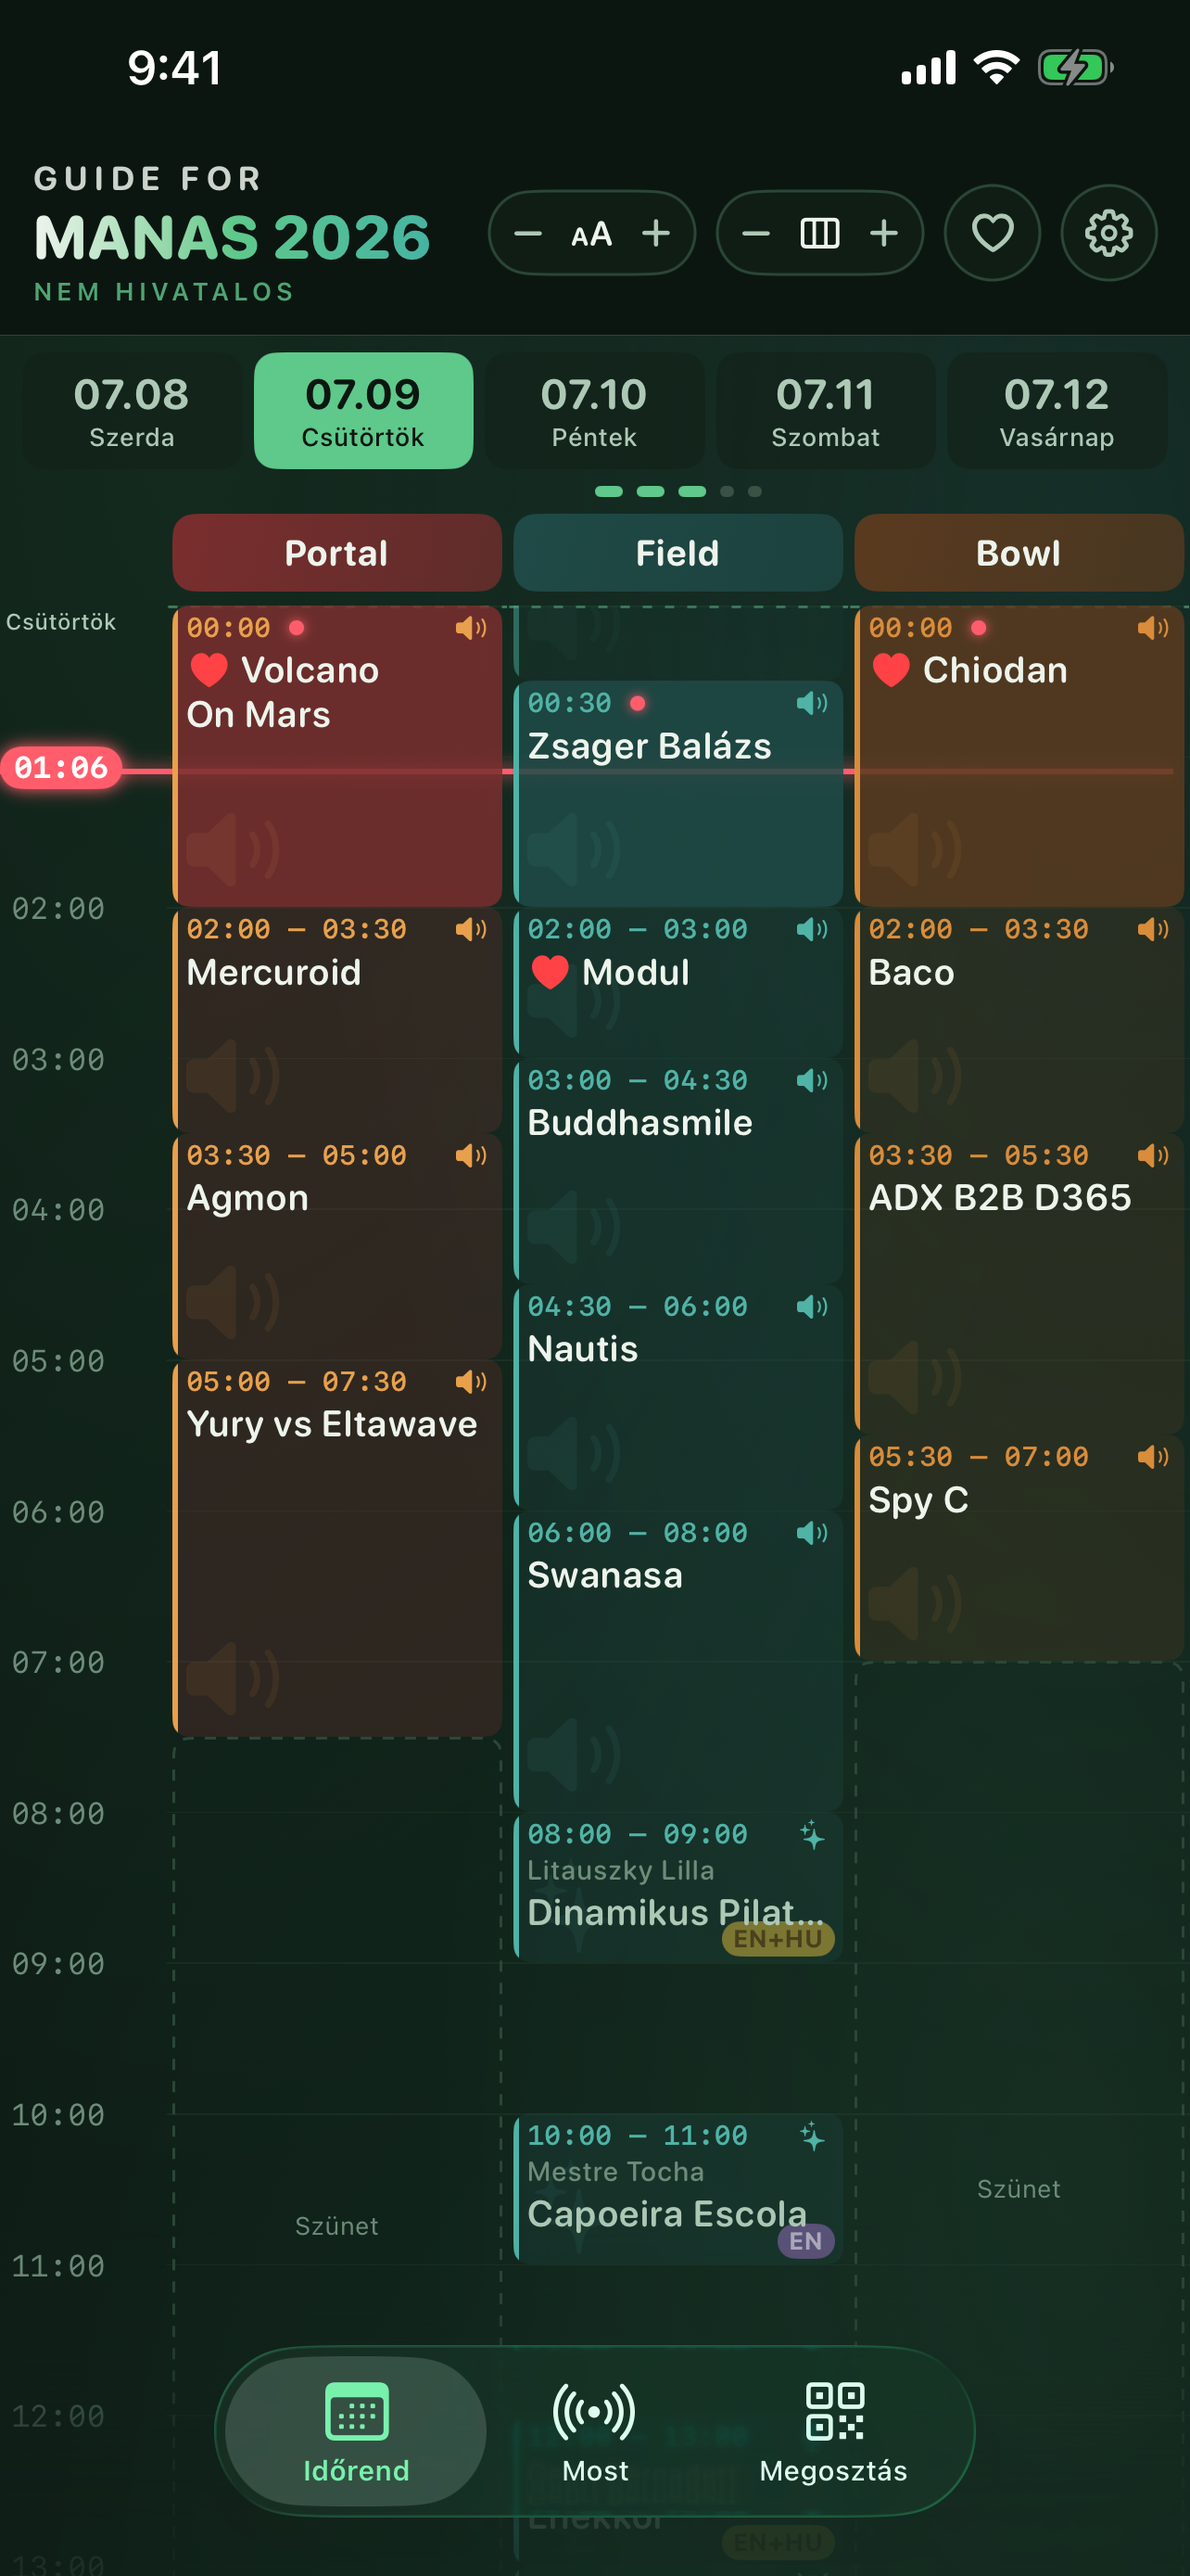
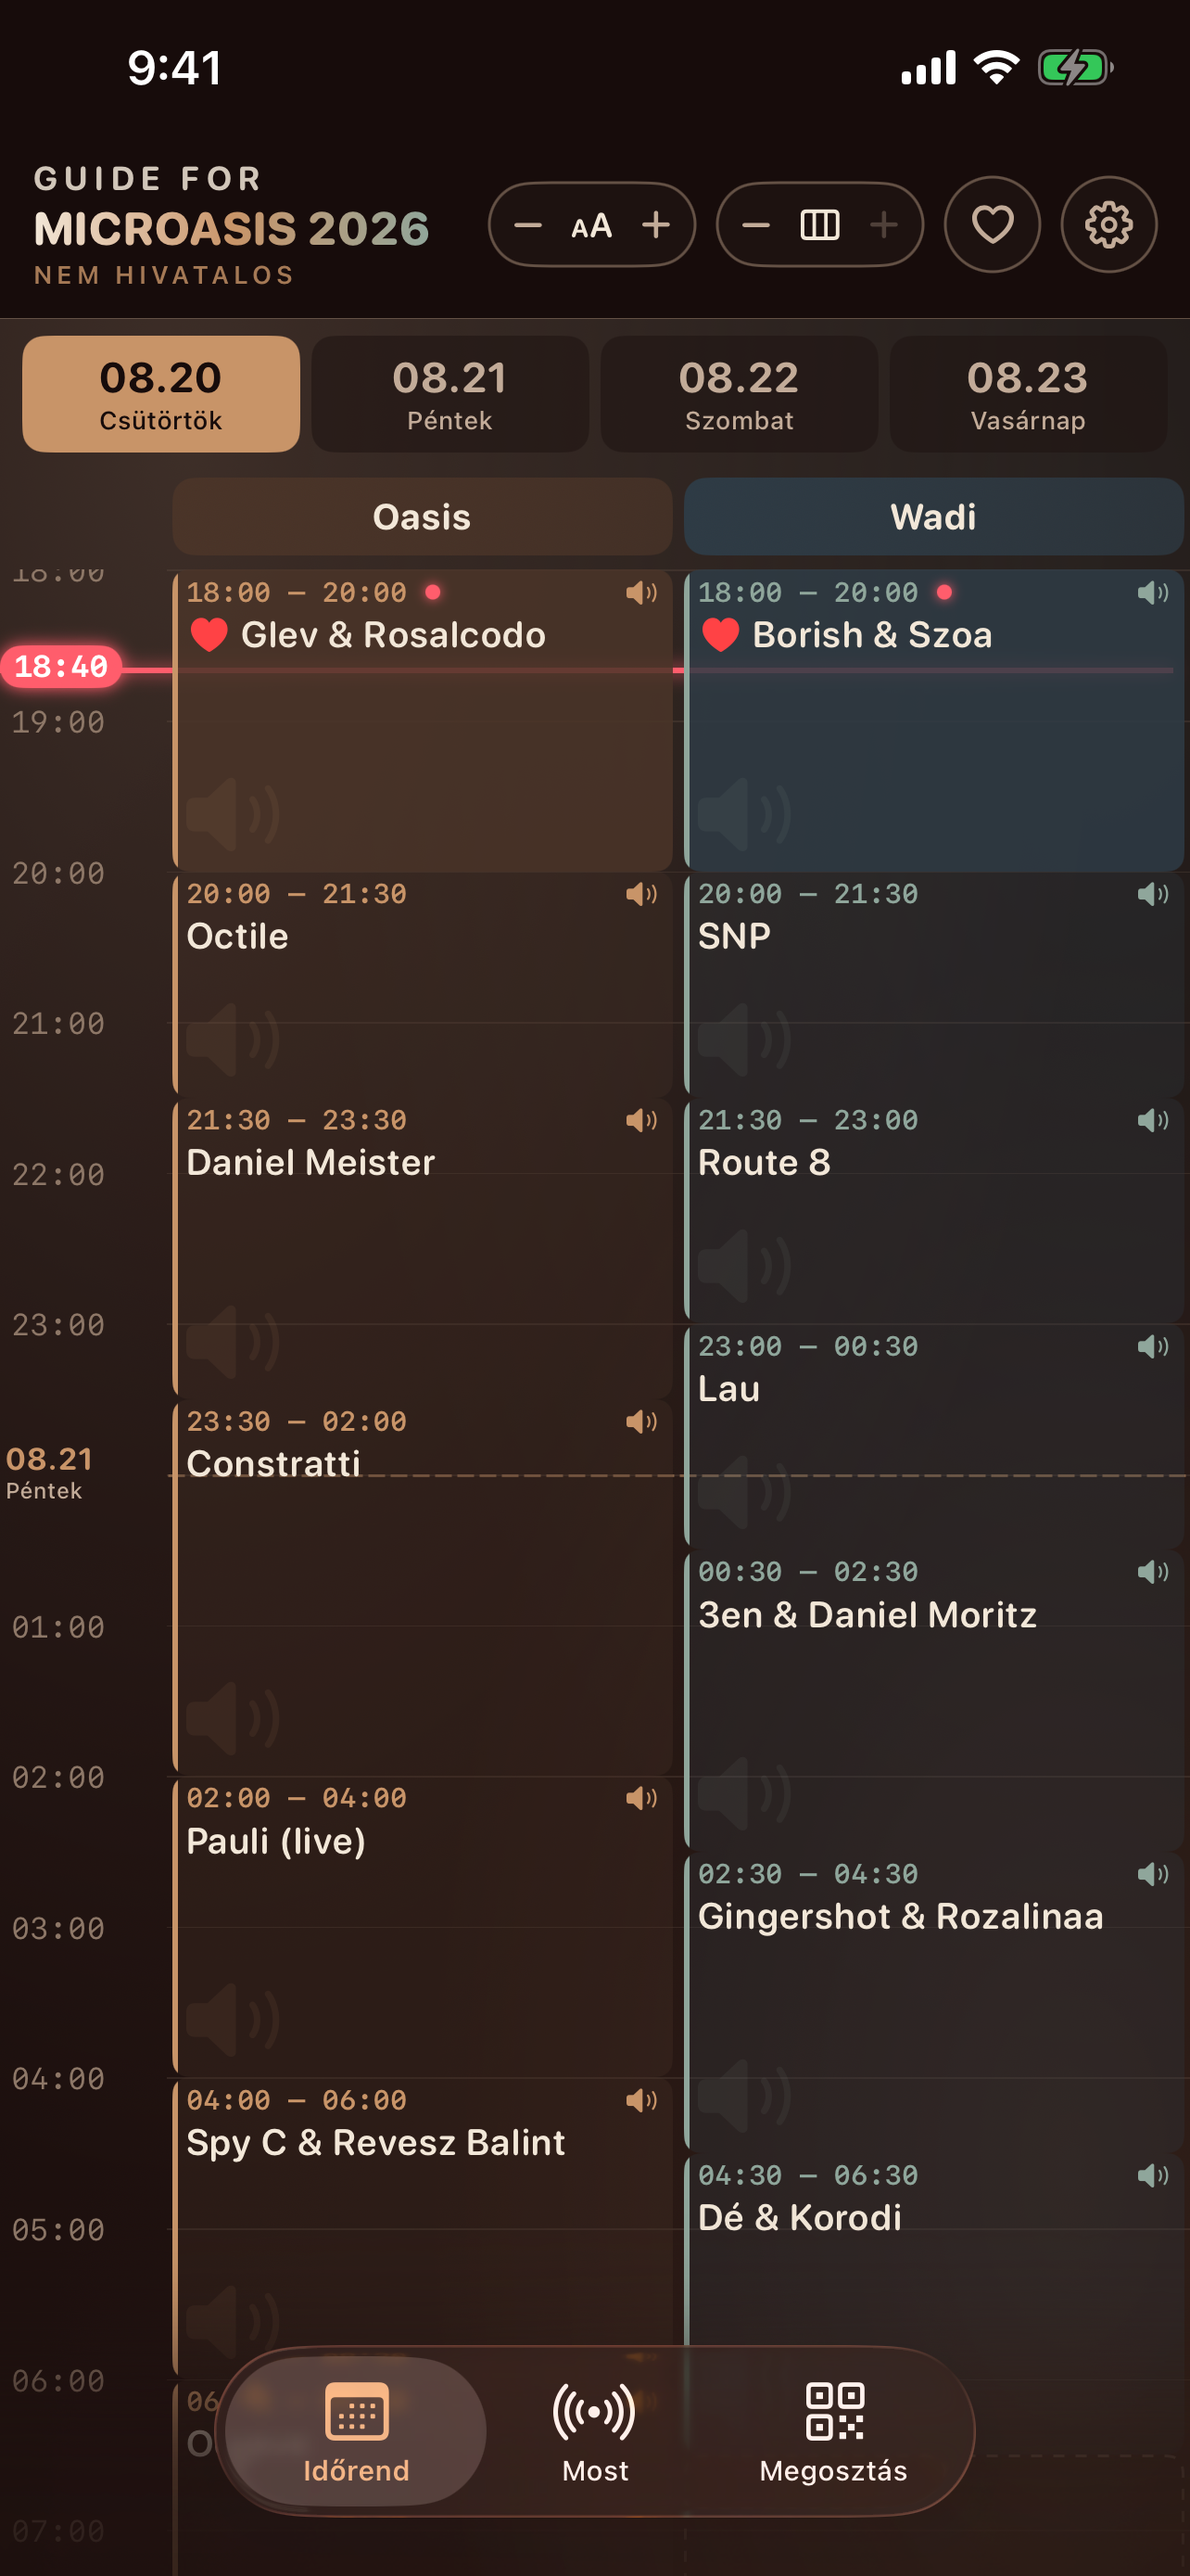
fix: end the wordmark and share gradients on ember, not teal
Both ran cream → sun → teal, and the cool secondary reads distinctly green
where it lands: the right-hand side of the "MICROASIS 2026" lockup and of the
share pill. They now end on the warm terracotta, which needed a Theme.ember
token on the Swift side to match the web's --color-ember.

Also refreshes the watch's pre-baked share QR: new URL (microasis.torma.ai/get)
and the new ink-on-cream values, so it matches the iOS runtime QR again.

The App Store listing copy and the screenshot recipe move to the MicrOasis
lineup — Oasis / Wadi / Yoga Terrace, August dates, and shot moments picked
against the live API so every referenced favorite slug resolves.

diff --git a/apple/Sources/MicrOasis-iOS/RootView.swift b/apple/Sources/MicrOasis-iOS/RootView.swift
@@ -117,7 +117,7 @@ struct DisclaimerSheet: View {
                 Text(L.t("app.title", settings.locale).uppercased())
                     .font(.system(size: 26, weight: .heavy, design: .rounded))
                     .foregroundStyle(
-                        LinearGradient(colors: [Theme.cream, Theme.sun, Theme.teal],
+                        LinearGradient(colors: [Theme.cream, Theme.sun, Theme.ember],
                                        startPoint: .leading, endPoint: .trailing))
                 Text(L.t("disclaimer.title", settings.locale).uppercased())
                     .font(.system(size: 11, weight: .semibold))
@@ -189,7 +189,7 @@ struct HeaderBar: View {
                 Text(L.t("app.title", settings.locale).uppercased())
                     .font(.system(size: 22, weight: .heavy, design: .rounded))
                     .foregroundStyle(
-                        LinearGradient(colors: [Theme.cream, Theme.sun, Theme.teal],
+                        LinearGradient(colors: [Theme.cream, Theme.sun, Theme.ember],
                                        startPoint: .leading, endPoint: .trailing)
                     )
                     .lineLimit(1).minimumScaleFactor(0.6)

diff --git a/pwa/components/DisclaimerGate.tsx b/pwa/components/DisclaimerGate.tsx
@@ -39,7 +39,7 @@ export function DisclaimerGate() {
         <p className="text-[0.62rem] font-bold uppercase tracking-[0.2em] text-cream/75">
           {t("app.guidefor")}
         </p>
-        <h2 className="mt-0.5 bg-gradient-to-r from-cream via-sun to-teal bg-clip-text font-display text-2xl font-extrabold leading-none tracking-wide text-transparent">
+        <h2 className="mt-0.5 bg-gradient-to-r from-cream via-sun to-ember bg-clip-text font-display text-2xl font-extrabold leading-none tracking-wide text-transparent">
           {t("app.title")}
         </h2>
         <p className="mt-1.5 text-[0.7rem] font-semibold uppercase tracking-[0.18em] text-white/50">

diff --git a/apple/Sources/MicrOasis-watch/WatchRootView.swift b/apple/Sources/MicrOasis-watch/WatchRootView.swift
@@ -413,7 +413,7 @@ struct WatchDisclaimerSheet: View {
                     Text(L.t("app.title", settings.locale).uppercased())
                         .font(.system(size: 19, weight: .heavy, design: .rounded))
                         .foregroundStyle(
-                            LinearGradient(colors: [Theme.cream, Theme.sun, Theme.teal],
+                            LinearGradient(colors: [Theme.cream, Theme.sun, Theme.ember],
                                            startPoint: .leading, endPoint: .trailing))
                     Text(L.t("disclaimer.title", settings.locale).uppercased())
                         .font(.system(size: 8, weight: .semibold))

diff --git a/pwa/components/Header.tsx b/pwa/components/Header.tsx
@@ -40,7 +40,7 @@ export function Header() {
           <p className="text-[0.62rem] font-bold uppercase tracking-[0.2em] text-cream/75">
             {t("guidefor")}
           </p>
-          <h1 className="truncate bg-gradient-to-r from-cream via-sun to-teal bg-clip-text font-display text-2xl font-extrabold leading-none tracking-wide text-transparent">
+          <h1 className="truncate bg-gradient-to-r from-cream via-sun to-ember bg-clip-text font-display text-2xl font-extrabold leading-none tracking-wide text-transparent">
             {t("title")}
           </h1>
           <p className="text-[0.6rem] font-medium uppercase tracking-[0.22em] text-sun/80">

diff --git a/apple/Sources/MicrOasis-iOS/ShareView.swift b/apple/Sources/MicrOasis-iOS/ShareView.swift
@@ -46,7 +46,7 @@ struct ShareView: View {
                         .padding(.horizontal, 30)
                         .padding(.vertical, 15)
                         .background(
-                            LinearGradient(colors: [Theme.sun, Theme.teal],
+                            LinearGradient(colors: [Theme.sun, Theme.ember],
                                            startPoint: .topLeading, endPoint: .bottomTrailing),
                             in: Capsule())
                         .overlay(RunningBorder())

diff --git a/pwa/components/showcase/Wordmark.tsx b/pwa/components/showcase/Wordmark.tsx
@@ -12,7 +12,7 @@ export function Wordmark() {
       <p className="text-[0.55rem] font-bold uppercase tracking-[0.2em] text-cream/75">
         {t("guidefor")}
       </p>
-      <p className="bg-gradient-to-r from-cream via-sun to-teal bg-clip-text font-display text-lg font-extrabold tracking-wide text-transparent">
+      <p className="bg-gradient-to-r from-cream via-sun to-ember bg-clip-text font-display text-lg font-extrabold tracking-wide text-transparent">
         {t("title")}
       </p>
     </div>

diff --git a/apple/Sources/OasisKit/Theme.swift b/apple/Sources/OasisKit/Theme.swift
@@ -236,6 +236,7 @@ public enum Theme {
     public static let creamDim = Color(hex: "#c2ab98")
     public static let creamFaint = Color(hex: "#8d7767")
     public static let sun = Color(hex: "#c89468") // primary sand accent
+    public static let ember = Color(hex: "#b5764a") // deeper terracotta
     public static let leaf = Color(hex: "#7e9187")
     public static let teal = Color(hex: "#8fa69b")
     public static let now = Color(hex: "#ff5d6c")

diff --git a/apple/scripts/build_share_qr.py b/apple/scripts/build_share_qr.py
@@ -8,7 +8,7 @@ once into the watch asset catalog and the watch just displays the image.
 KEEP IN SYNC: `URL` below must equal `AppLinks.qr` in
 `Sources/OasisKit/AppState.swift` (https://microasis.torma.ai/get). If that link ever
 changes, re-run this script. Colours + error-correction match the iOS `QRCode` enum
-(ink #0c1611 modules on cream #edf4ec, correction level M) so both clients look alike.
+(ink #170c0b modules on cream #f2e7d8, correction level M) so both clients look alike.
 
 Usage (from `apple/`):
     python3 -m venv .venv && .venv/bin/pip install 'qrcode[pil]'
@@ -20,8 +20,8 @@ import qrcode
 from qrcode.constants import ERROR_CORRECT_M
 
 URL = "https://microasis.torma.ai/get"  # == AppLinks.qr
-INK = "#0c1611"   # dark modules
-CREAM = "#edf4ec"  # light field
+INK = "#170c0b"   # dark modules
+CREAM = "#f2e7d8"  # light field
 OUT = Path(__file__).resolve().parent.parent / (
     "Sources/MicrOasis-watch/Assets.xcassets/ShareQR.imageset/share-qr.png"
 )

diff --git a/apple/STORE_LISTING.md b/apple/STORE_LISTING.md
@@ -47,10 +47,10 @@ Nem hivatalos rajongói kalauz a MicrOasis 2026-hoz: teljes időrend, élő Most
 
 This is an unofficial, fan-made guide. It is not affiliated with, endorsed by, or sponsored by the MicrOasis festival or its organizers.
 
-Guide for MicrOasis 2026 is an independent companion app for visitors to the MicrOasis 2026 festival in Hungary (July 2026). It puts the full programme in your pocket — on iPhone and on your wrist — so you always know what is on, where, and when.
+Guide for MicrOasis 2026 is an independent companion app for visitors to the MicrOasis 2026 festival in Hungary (August 2026). It puts the full programme in your pocket — on iPhone and on your wrist — so you always know what is on, where, and when.
 
 THE WHOLE PROGRAMME
-- Browse the complete timetable across every stage: Portal, Field, Bowl, Terrace and Mandala.
+- Browse the complete timetable across every stage: Oasis, Wadi and the Yoga Terrace.
 - A time-proportional grid on iPhone lays the day out to scale, so overlaps and gaps are easy to see at a glance.
 - Every act shows its performer and a type icon — live music, ceremonies, sound baths, drums, yoga, workshops and more — so the day is easy to read.
 - Scroll horizontally between stages and tap any act for the details.
@@ -100,10 +100,10 @@ Questions or feedback? Email microasis2026@torma.ai
 
 Ez egy nem hivatalos, rajongók által készített kalauz. Nem áll kapcsolatban a MicrOasis fesztivállal vagy annak szervezőivel, azok nem támogatják és nem szponzorálják.
 
-A Guide for MicrOasis 2026 egy független kísérőalkalmazás a magyarországi MicrOasis 2026 fesztivál látogatóinak (2026. július). A teljes programot a zsebedbe teszi — iPhone-on és a csuklódon is —, hogy mindig tudd, mi, hol és mikor zajlik.
+A Guide for MicrOasis 2026 egy független kísérőalkalmazás a magyarországi MicrOasis 2026 fesztivál látogatóinak (2026. augusztus). A teljes programot a zsebedbe teszi — iPhone-on és a csuklódon is —, hogy mindig tudd, mi, hol és mikor zajlik.
 
 A TELJES PROGRAM
-- Böngészd a teljes időrendet minden színpadon: Portal, Field, Bowl, Terrace és Mandala.
+- Böngészd a teljes időrendet minden színpadon: Oasis, Wadi és a Yoga Terrace.
 - iPhone-on idő-arányos rács mutatja a napot, így az átfedések és a szünetek egy pillantással átláthatók.
 - Minden programnál ott a fellépő neve és egy típus-ikon — élő zene, szertartások, hangfürdő, dobok, jóga, workshopok és még több —, így a nap könnyen olvasható.
 - Görgess vízszintesen a színpadok között, és koppints bármelyik fellépőre a részletekért.
@@ -243,7 +243,7 @@ Nem hivatalos, rajongói kalauz, nem áll kapcsolatban a fesztivállal. Visszaje
 
 First release.
 
-- Full festival timetable across all stages (Portal, Field, Bowl, Terrace, Mandala) on a time-proportional grid.
+- Full festival timetable across all stages (Oasis, Wadi, Yoga Terrace) on a time-proportional grid.
 - "Now" view: playing now, up next, and a pre-festival countdown.
 - Apple Watch app to browse one stage at a time, plus Smart Stack widgets and complications.
 - Works offline after the first load.
@@ -256,7 +256,7 @@ This is an unofficial, fan-made guide, not affiliated with the festival. Feedbac
 
 Első kiadás.
 
-- Teljes fesztiválidőrend minden színpadon (Portal, Field, Bowl, Terrace, Mandala) idő-arányos rácson.
+- Teljes fesztiválidőrend minden színpadon (Oasis, Wadi, Yoga Terrace) idő-arányos rácson.
 - „Most" nézet: mi szól éppen, mi következik, és visszaszámlálás a fesztivál kezdetéig.
 - Apple Watch-alkalmazás egy színpad böngészéséhez, valamint Smart Stack widgetek és óraszámlap-kiegészítők.
 - Az első betöltés után offline is működik.
@@ -267,7 +267,7 @@ Ez egy nem hivatalos, rajongói kalauz, nem áll kapcsolatban a fesztivállal. V
 
 ## Notes for Review
 
-Unofficial, fan-made companion guide for the MicrOasis 2026 music festival (Hungary, July 2026). Not affiliated with, endorsed by, or sponsored by the festival or its organizers; "MicrOasis 2026" is used referentially to indicate which festival this guide covers.
+Unofficial, fan-made companion guide for the MicrOasis 2026 music festival (Hungary, August 2026). Not affiliated with, endorsed by, or sponsored by the festival or its organizers; "MicrOasis 2026" is used referentially to indicate which festival this guide covers.
 
 New in this version (1.4): favourites and iPhone home-screen widgets. Favourites are hearts the user taps onto acts; they are stored locally on the device and synced directly between the user's own iPhone and Apple Watch via Apple's WatchConnectivity framework — nothing is sent to any server, there is no account, and no data is collected. The home-screen widgets (WidgetKit, small/medium) show the same public schedule as the app for a chosen stage. No new permissions; the App Privacy answers are unchanged.
 
